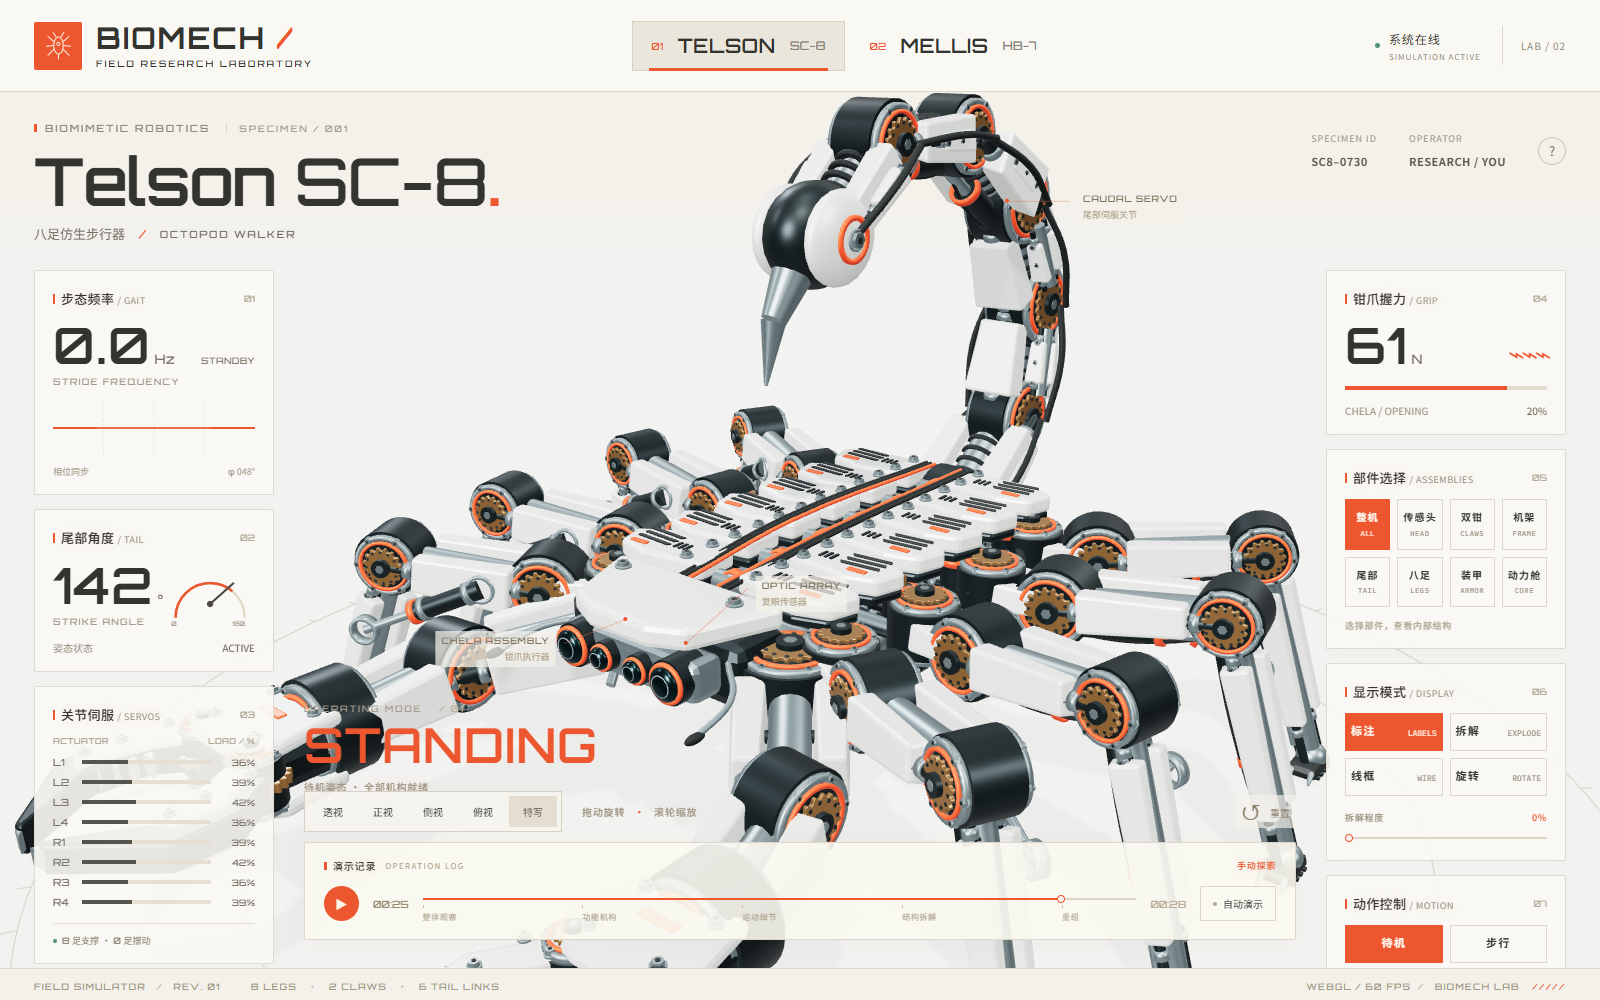
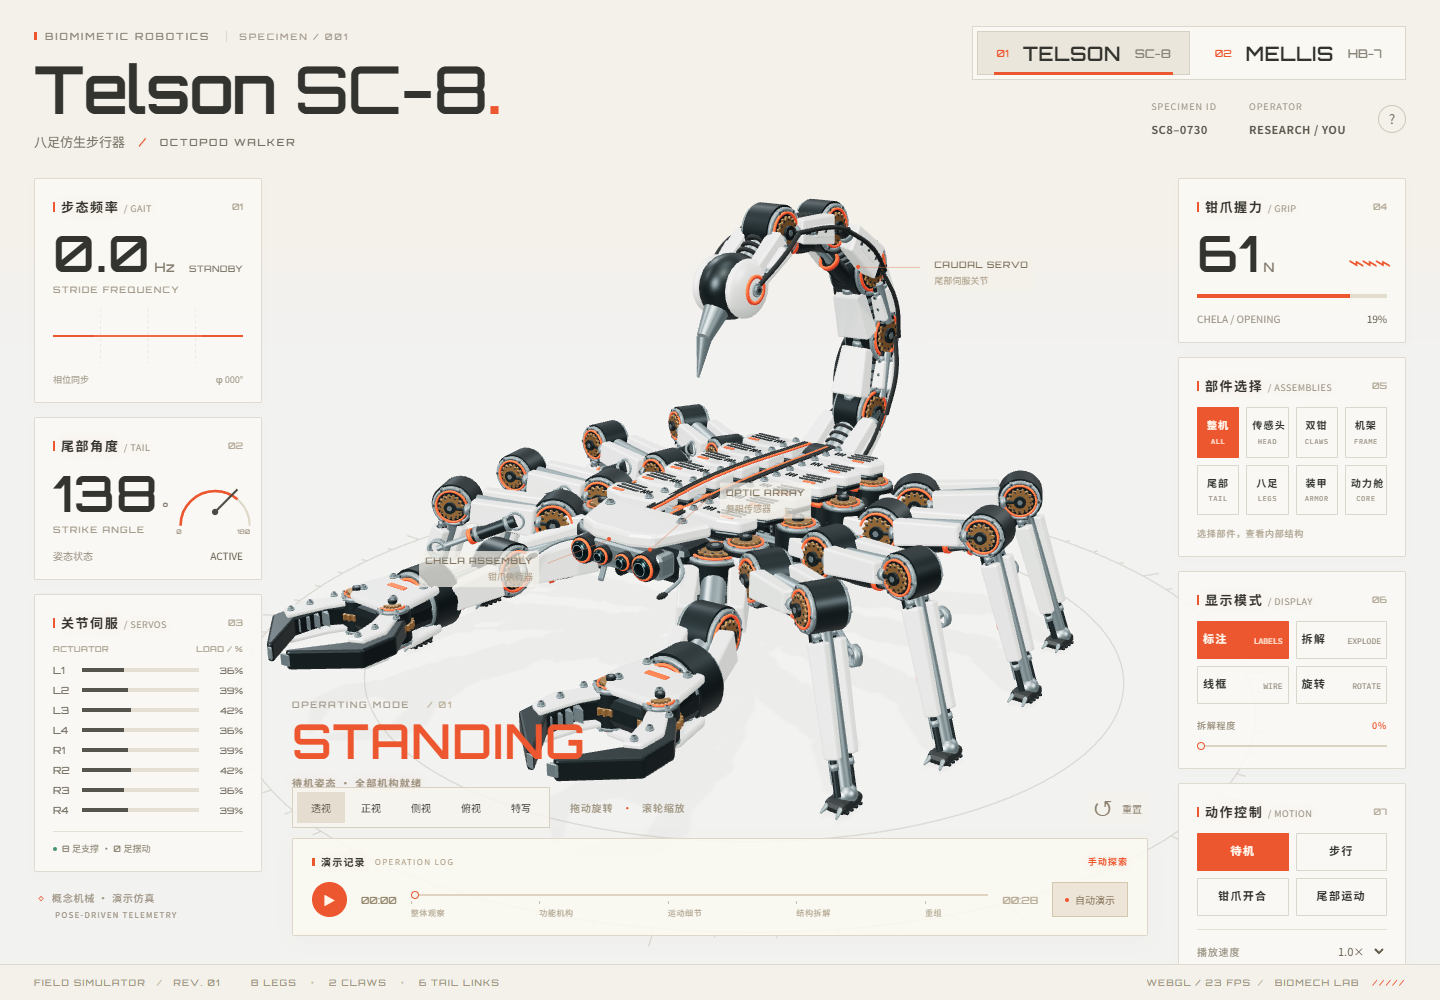
feat: 统一全屏加载进度并将标本切换移入模型视区
保留首屏 Loading 贯穿下载、解析与渲染，模型就绪后再显示主界面；失败时支持重试。移除 Header，将 TELSON / MELLIS 切换放至模型可视区右上角并适配移动端。更新 README 截图及慢速下载回归验证。

diff --git a/index.html b/index.html
@@ -1,5 +1,5 @@
 <!doctype html>
-<html lang="zh-CN">
+<html lang="zh-CN" class="is-loading">
   <head>
     <meta charset="UTF-8" />
     <meta name="viewport" content="width=device-width, initial-scale=1.0" />
@@ -10,37 +10,54 @@
     <style>
       html,body{margin:0;min-height:100%;background:#f4f1eb}
       #app{min-height:100vh}
-      .boot-loader{position:fixed;inset:0;z-index:999;display:grid;place-content:center;gap:16px;padding:32px;background:#f4f1eb;color:#33342f;font:500 14px/1.5 "Microsoft YaHei",sans-serif;letter-spacing:.12em}
-      .boot-loader__mark{color:#ed572f;font:700 12px/1.2 Arial,sans-serif;letter-spacing:.24em}
-      .boot-loader b{font-weight:700}
-      .boot-loader small{color:#969287;font:11px/1.5 "Courier New",monospace;letter-spacing:.12em}
-      .boot-loader__track{width:min(320px,70vw);height:3px;background:#ded7ca;overflow:hidden}
-      .boot-loader__track i{display:block;width:42%;height:100%;background:#ed572f;animation:boot-scan 1.35s ease-in-out infinite}
-      .boot-loader button{justify-self:start;padding:10px 20px;border:1px solid #ed572f;background:transparent;color:#b43c1b;font:inherit;cursor:pointer}
-      .boot-loader button[hidden]{display:none}
-      @keyframes boot-scan{0%{transform:translateX(-110%)}100%{transform:translateX(260%)}}
-      @media(prefers-reduced-motion:reduce){.boot-loader__track i{animation:none;transform:none}}
+      html.is-loading{overflow:hidden}
+      html.is-loading #app{visibility:hidden}
+      .boot-loader{position:fixed;inset:0;z-index:999;display:grid;place-items:center;overflow:auto;padding:24px;box-sizing:border-box;background:#f4f1eb;color:#33342f;font:500 14px/1.5 "Noto Sans SC","Microsoft YaHei",sans-serif;letter-spacing:.06em}
+      .boot-loader__content{width:min(440px,100%);min-width:0;text-align:center}
+      .boot-loader__spinner{display:block;width:32px;height:32px;margin:0 auto 24px;border:1px solid #ded7ca;border-bottom-color:#ed572f;border-radius:50%;animation:boot-spin 1.2s linear infinite}
+      .boot-loader__mark{display:block;color:#ed572f;font:500 10px/1.6 var(--cyber,Arial),sans-serif;letter-spacing:.14em}
+      .boot-loader b{display:block;margin-top:16px;font-size:22px;font-weight:700;letter-spacing:.1em}
+      .loading-metrics{display:flex;justify-content:space-between;align-items:baseline;gap:12px;margin-top:36px;text-align:left}
+      #loading-detail{color:#756d60;font-size:13px;line-height:1.6;letter-spacing:.03em}
+      #loading-percent{color:#ed572f;font:600 27px/1.3 var(--cyber,"Courier New"),monospace;white-space:nowrap}
+      #loading-progress{display:block;appearance:none;border:0;border-radius:0;width:100%;height:5px;margin:12px 0 0;background:#ded7ca;accent-color:#ed572f}
+      #loading-progress::-webkit-progress-bar{background:#ded7ca}
+      #loading-progress::-webkit-progress-value{background:#ed572f;transition:width .12s linear}
+      #loading-progress::-moz-progress-bar{background:#ed572f}
+      #loading-progress:indeterminate{background:linear-gradient(90deg,#ded7ca 0 30%,#ed572f 30% 65%,#ded7ca 65%);background-size:250% 100%;animation:boot-sweep 1.4s linear infinite}
+      #loading-progress:indeterminate::-webkit-progress-bar{background:transparent}
+      .loading-steps{display:flex;justify-content:space-between;gap:10px;padding:0;margin:20px 0 0;list-style:none;font-size:12px;color:#9b9282;letter-spacing:.03em}
+      .boot-loader[data-phase=download] .loading-steps li:nth-child(1),.boot-loader[data-phase=parse] .loading-steps li:nth-child(2),.boot-loader[data-phase=render] .loading-steps li:nth-child(3){color:#ed572f;font-weight:700}
+      .boot-loader[data-phase=error] .boot-loader__spinner{animation:none;border-color:#ed572f}
+      .boot-loader button{margin-top:24px;padding:10px 20px;border:1px solid #ed572f;background:transparent;color:#b43c1b;font:inherit;cursor:pointer}
+      .boot-loader[hidden],.boot-loader button[hidden]{display:none!important}
+      @keyframes boot-spin{to{transform:rotate(360deg)}}
+      @keyframes boot-sweep{to{background-position:-250% 0}}
+      @media(prefers-reduced-motion:reduce){.boot-loader__spinner,#loading-progress:indeterminate{animation:none}}
+      @media(max-width:600px){.boot-loader{padding:24px}.boot-loader b{font-size:19px}.boot-loader__mark{font-size:9px}.loading-steps{font-size:11px;gap:6px}#loading-percent{font-size:24px}}
     </style>
   </head>
   <body>
-    <div id="app">
-      <div class="boot-loader" role="status" aria-live="polite">
-        <span class="boot-loader__mark">BIOMECH / BOOT SEQUENCE</span>
-        <b>正在启动机械实验室</b>
-        <span class="boot-loader__track" aria-hidden="true"><i></i></span>
-        <small>INITIALIZING WEBGL · LOADING SPECIMENS</small>
-        <button type="button" hidden>刷新重试</button>
+    <div class="boot-loader" role="status" aria-live="polite" data-phase="boot">
+      <div class="boot-loader__content">
+        <span class="boot-loader__spinner" aria-hidden="true"></span>
+        <span class="boot-loader__mark">BIOMECH / SPECIMEN LOADER</span>
+        <b id="loading-title">正在启动机械实验室</b>
+        <div class="loading-metrics"><span id="loading-detail">初始化三维显示</span><strong id="loading-percent">启动中</strong></div>
+        <progress id="loading-progress" max="100" aria-label="模型下载进度"></progress>
+        <ol class="loading-steps" aria-label="模型加载阶段"><li>01 下载模型</li><li>02 解析结构</li><li>03 准备渲染</li></ol>
+        <button id="retry" type="button" hidden>刷新重试</button>
       </div>
     </div>
     <script>
       (function () {
         var loader = document.querySelector('.boot-loader');
         var retry = loader.querySelector('button');
-        retry.addEventListener('click', function () { location.reload(); });
+        retry.onclick = function () { location.reload(); };
         function message(title, detail) {
-          if (!loader.isConnected) return;
+          if (loader.dataset.phase !== 'boot') return;
           loader.querySelector('b').textContent = title;
-          loader.querySelector('small').textContent = detail;
+          document.getElementById('loading-detail').textContent = detail;
           retry.hidden = false;
         }
         window.addEventListener('error', function () {
@@ -55,6 +72,7 @@
         }, 30000);
       }());
     </script>
+    <div id="app" inert aria-hidden="true" aria-busy="true"></div>
     <noscript>需要启用 JavaScript 才能运行 BIOMECH 仿生机械实验室。</noscript>
     <script type="module" src="/src/main.js"></script>
   </body>

diff --git a/src/main.js b/src/main.js
@@ -12,19 +12,14 @@ import './style.css';
 import { specimens, DURATION, solve, tourAt, clamp } from './kinematics.js';
 import { SpecimenStage } from './stage.js';
 
-const icon = `<svg viewBox="0 0 48 48" fill="none" aria-hidden="true"><ellipse cx="24" cy="24" rx="6" ry="11"/><path d="m18 19-8-7m8 12-10 1m10 4-8 8m20-18 8-7m-8 12 10 1m-10 4 8 8M21 13l-4-6m10 6 4-6M24 35v7"/><circle cx="24" cy="22" r="2"/></svg>`;
 const waveSVG = '<svg class="wave-chart" viewBox="0 0 200 46" preserveAspectRatio="none" aria-hidden="true"><path d="M0 23H200 M50 0V46 M100 0V46 M150 0V46" class="chart-grid"/><path id="wave" d="M0 23H200"/></svg>';
 document.querySelector('#app').innerHTML = `
-<header class="masthead">
-  <a class="brand" href="./" aria-label="仿生机械实验室首页"><span class="brand-mark">${icon}</span><span><b>BIOMECH<span class="brand-slash"> / </span></b><small>FIELD RESEARCH LABORATORY</small></span></a>
-  <nav class="specimen-switch" aria-label="选择机械模型">
+<main class="workspace">
+  <nav class="specimen-switch viewport-switch" aria-label="选择机械模型">
     <button data-model="scorpion" aria-pressed="true"><span class="specimen-number">01</span><strong>TELSON</strong><span>SC-8</span></button>
     <button data-model="bee" aria-pressed="false"><span class="specimen-number">02</span><strong>MELLIS</strong><span>HB-7</span></button>
   </nav>
-  <div class="lab-status"><span class="status-dot"></span><span>系统在线<small>SIMULATION ACTIVE</small></span><span class="lab-bay">LAB / 02</span></div>
-</header>
-<main class="workspace">
-  <div id="stage" class="stage"><div class="loading" role="status" data-phase="download"><span class="loading-spinner"></span><span class="loading-kicker">BIOMECH / SPECIMEN LOADER</span><b id="loading-title">正在下载机械标本</b><div class="loading-metrics"><span id="loading-detail">准备下载</span><strong id="loading-percent">0%</strong></div><progress id="loading-progress" max="100" value="0" aria-label="模型下载进度"></progress><ol class="loading-steps" aria-label="模型加载阶段"><li>01 下载模型</li><li>02 解析结构</li><li>03 准备渲染</li></ol><button id="retry" hidden>重新加载</button></div></div>
+  <div id="stage" class="stage"></div>
   <section class="specimen-heading" aria-label="模型信息">
     <div class="eyebrow"><span class="orange-tick"></span> BIOMIMETIC ROBOTICS <span class="heading-index">SPECIMEN / <span id="specimen-index">001</span></span></div>
     <h1><span id="model-name">Telson</span> <span id="model-code">SC-8</span><span class="title-period">.</span></h1>
@@ -107,8 +102,16 @@ function renderControls() {
   document.querySelectorAll('[data-mode]').forEach(b=>b.onclick=()=>setMode(b.dataset.mode));
 }
 
+function setLoading(visible) {
+  document.querySelector('.boot-loader').hidden= !visible;
+  document.documentElement.classList.toggle('is-loading',visible);
+  $('app').inert=visible;
+  $('app').setAttribute('aria-hidden',String(visible));
+  $('app').setAttribute('aria-busy',String(visible));
+}
+
 function showLoading({ phase, loaded = 0, total = 0, local = false }) {
-  document.querySelector('.loading').dataset.phase = phase;
+  document.querySelector('.boot-loader').dataset.phase = phase;
   const progress = $('loading-progress');
   if (phase === 'download') {
     $('loading-title').textContent = local ? '正在读取本地标本' : '正在下载机械标本';
@@ -135,14 +138,15 @@ async function selectModel(model) {
   state.ready=false; state.model=model; state.time=0; state.simulationTime=0; state.mode='stand';state.part='all';state.explode=0;state.targetExplode=0;
   Object.keys(motionWeights).forEach(key=>motionWeights[key]=0);
   $('stage').classList.add('is-loading');
-  document.querySelector('.loading').hidden=false;
+  setLoading(true);
+  $('retry').textContent='重新加载';
   showLoading({ phase: 'download' }); $('retry').hidden=true;
   renderControls();
   try {
     const loaded=await stage.load(model,progress=>{if(attempt===loadAttempt)showLoading(progress);});
     if(!loaded||attempt!==loadAttempt)return;
     state.ready=true;
-    document.querySelector('.loading').hidden=true;
+    setLoading(false);
     $('stage').classList.remove('is-loading');
     $('render-status').textContent='WEBGL / READY';
     updateHUD(currentPose());
@@ -152,7 +156,7 @@ async function selectModel(model) {
     console.error(error);
     $('loading-title').textContent='模型加载失败';
     $('loading-detail').textContent='请检查网络连接或模型文件，然后重试';
-    document.querySelector('.loading').dataset.phase='error';
+    document.querySelector('.boot-loader').dataset.phase='error';
     $('loading-progress').value=0;
     $('loading-percent').textContent='已中断';
     $('retry').hidden=false;
@@ -186,11 +190,11 @@ $('reset').onclick=()=>{
   ['explode','turntable','wireframe'].forEach(id=>press(id,false));press('labels',true);$('speed').value='1';
   document.querySelectorAll('[data-view]').forEach(b=>b.setAttribute('aria-pressed',String(b.dataset.view==='iso')));
 };
-$('retry').onclick=()=>selectModel(state.model);
+$('retry').onclick=()=>stage?selectModel(state.model):location.reload();
 $('help').onclick=()=>{manual();$('help-dialog').showModal();};
 $('close-help').onclick=()=>$('help-dialog').close();
 window.addEventListener('keydown',e=>{
-  if(/INPUT|SELECT|TEXTAREA/.test(e.target.tagName)||e.altKey||e.ctrlKey||e.metaKey||$('help-dialog').open)return;
+  if(!state.ready||/INPUT|SELECT|TEXTAREA/.test(e.target.tagName)||e.altKey||e.ctrlKey||e.metaKey||$('help-dialog').open)return;
   if(e.code==='Space'){e.preventDefault();$('play').click();}
   if(e.key.toLowerCase()==='e')$('explode').click();
   if(e.key.toLowerCase()==='l')$('labels').click();
@@ -254,6 +258,8 @@ try {
   requestAnimationFrame(animate);
 } catch(error) {
   console.error(error);$('loading-title').textContent='无法启动三维显示';$('loading-detail').textContent='请启用浏览器硬件加速，或使用支持 WebGL 2 的浏览器';
+  document.querySelector('.boot-loader').dataset.phase='error';
+  $('loading-progress').value=0;$('loading-percent').textContent='已中断';$('retry').hidden=false;
 }
 updatePlay();
 

diff --git a/src/style.css b/src/style.css
@@ -83,22 +83,18 @@ body,#app{font-family:var(--cyber)}
 .button-grid button{white-space:nowrap}
 @media(max-width:600px){.parts-grid[data-specimen="scorpion"]{grid-template-columns:repeat(3,minmax(0,1fr))}.parts-grid[data-specimen="scorpion"] button{white-space:nowrap;font-size:11px;letter-spacing:.05em}}
 
-/* Model download progress is separate from parsing and GPU preparation. */
-.loading{width:min(420px,calc(100% - 32px));min-width:0;padding:28px;box-shadow:0 12px 70px #413c2914}
-.loading .loading-kicker{color:var(--accent);font:500 9px var(--cyber);letter-spacing:.14em;margin-top:18px}
-.loading b{font-size:18px;letter-spacing:.1em;margin-top:12px}
-.loading-metrics{display:flex;justify-content:space-between;align-items:baseline;width:100%;gap:12px;margin-top:26px;text-align:left}
-.loading #loading-detail{font-size:11px;color:#756d60;letter-spacing:.03em;line-height:1.6}
-#loading-percent{font:600 21px var(--cyber);color:var(--accent);white-space:nowrap}
-#loading-progress{display:block;appearance:none;border:0;border-radius:0;width:100%;height:5px;margin:12px 0 0;background:#ded7ca;accent-color:var(--accent)}
-#loading-progress::-webkit-progress-bar{background:#ded7ca}
-#loading-progress::-webkit-progress-value{background:var(--accent);transition:width .12s linear}
-#loading-progress::-moz-progress-bar{background:var(--accent)}
-#loading-progress:indeterminate{background:linear-gradient(90deg,#ded7ca 0 30%,var(--accent) 30% 65%,#ded7ca 65%);background-size:250% 100%;animation:loading-sweep 1.4s linear infinite}
-#loading-progress:indeterminate::-webkit-progress-bar{background:transparent}
-.loading-steps{display:flex;justify-content:space-between;gap:10px;padding:0;margin:18px 0 0;list-style:none;width:100%;font-size:10px;color:#9b9282;letter-spacing:.03em}
-.loading[data-phase=download] .loading-steps li:nth-child(1),.loading[data-phase=parse] .loading-steps li:nth-child(2),.loading[data-phase=render] .loading-steps li:nth-child(3){color:var(--accent);font-weight:700}
-.loading[data-phase=error] .loading-spinner{animation:none;border-color:var(--accent)}
-@keyframes loading-sweep{to{background-position:-250% 0}}
-@media(prefers-reduced-motion:reduce){#loading-progress:indeterminate{animation:none}}
-@media(max-width:600px){.loading{padding:24px 20px}.loading b{font-size:16px}.loading-steps{font-size:9px;gap:6px}}
+/* Specimen switching belongs to the model viewport. */
+@media(min-width:1001px){.workspace{height:calc(100dvh - 36px)}}
+.viewport-switch{position:absolute;top:26px;right:34px;z-index:6;align-self:auto;display:flex;gap:6px;padding:4px;border:1px solid var(--line);background:var(--panel)}
+.viewport-switch button{min-width:176px;height:44px}
+.specimen-meta{top:100px}
+@media(max-width:1280px) and (min-width:1001px){.viewport-switch{right:24px}}
+@media(max-width:1000px){.viewport-switch{top:24px;right:25px}.viewport-switch button{min-width:135px}.specimen-meta{top:94px}}
+@media(max-width:600px){
+  .viewport-switch{top:18px;right:18px;gap:3px;padding:3px}
+  .viewport-switch button{min-width:0;width:125px;height:38px;flex:0 0 auto;padding:0 9px;gap:6px}
+  .viewport-switch strong{font-size:14px}
+  .viewport-switch .specimen-number{font-size:8px}
+  .specimen-heading{top:90px}
+  .specimen-meta{top:99px}
+}

diff --git a/README.md b/README.md
@@ -38,6 +38,10 @@ BIOMECH 是一个离线优先的交互式机械生物实验室：桌面端展示
 - **在线与离线交付**：网页通过独立 GLB 请求显示真实下载进度；保留完整 `dist` 文件夹后，也能双击 `index.html` 离线打开。
 - **模型加载进度**：显示已下载 MB、百分比、下载/解析/渲染三个阶段；下载失败时提供重试。
 
+<p align="center">
+  <img src="docs/screenshots/loading.png" alt="统一的全屏 Loading：模型下载字节数、真实百分比和加载阶段" width="100%" />
+</p>
+
 ## 快速开始
 
 需要 Node.js 20.19+ 或 22.12+。
@@ -78,9 +82,13 @@ npm run test:file
 
 它会用 Chrome 通过真实 `file://` 地址打开 `dist/index.html`，确认模型就绪且没有页面错误或资源请求失败。
 
-首屏 Loading 位于应用脚本之前。`npm run test:loading` 会先暂停 HTML 下载，确认首屏可见，再让模型下载分别停在 25% 和 75%，验证进度条及 MB 读数随实际字节数变化，最后验证两种标本均能加载。测试还覆盖没有 Content-Length 时使用构建时模型大小计算进度的情况。启动超过 30 秒时会显示等待说明及刷新入口。
+首屏即显示全屏 Loading，模型下载进度、MB 读数与「下载模型 → 解析结构 → 准备渲染」都在同一页面呈现；全部就绪后才显示实验室主界面。切换标本时也沿用此加载页。应用脚本启动超过 30 秒时会显示等待说明及刷新入口。
+
+`npm run test:loading` 会先暂停 HTML 下载，确认首屏可见，再让模型下载分别停在 25% 和 75%，验证进度条及 MB 读数随实际字节数变化，最后验证两种标本均能加载。测试同时覆盖无 Content-Length 的进度计算、桌面与手机的全屏加载布局，以及模型可视区右上角的标本切换。
 
 ## 操作方式
+
+主界面直接展示模型可视区，右上角的 **TELSON / MELLIS** 标签用于切换机械标本。
 
 | 操作 | 作用 |
 | --- | --- |
